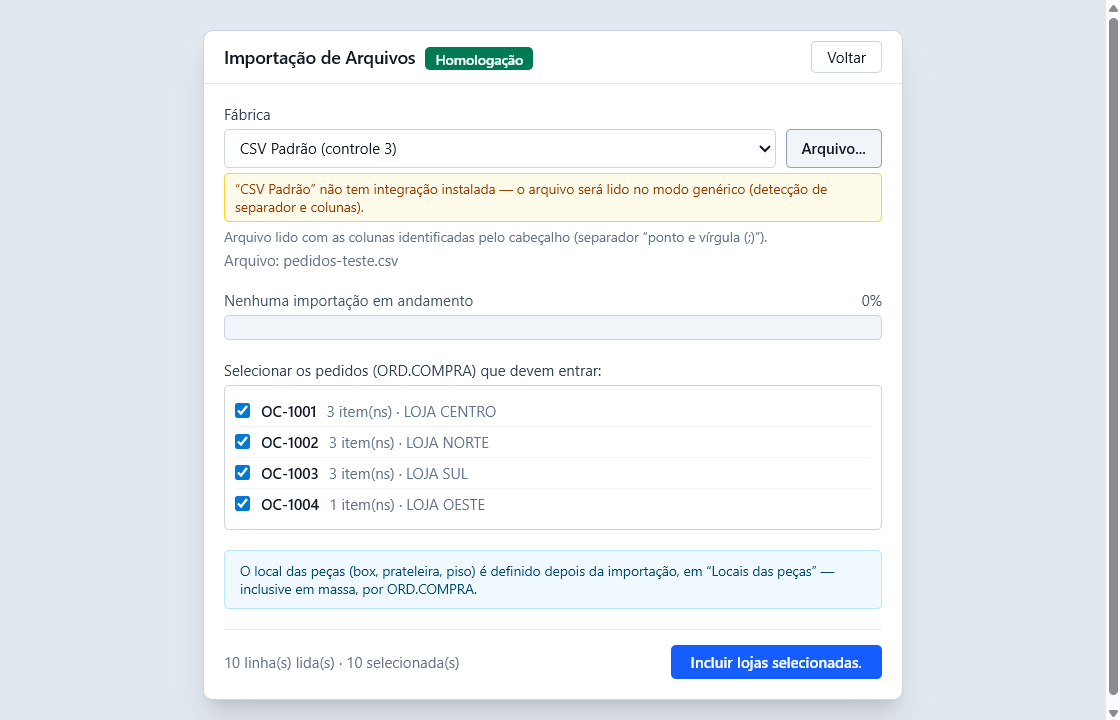
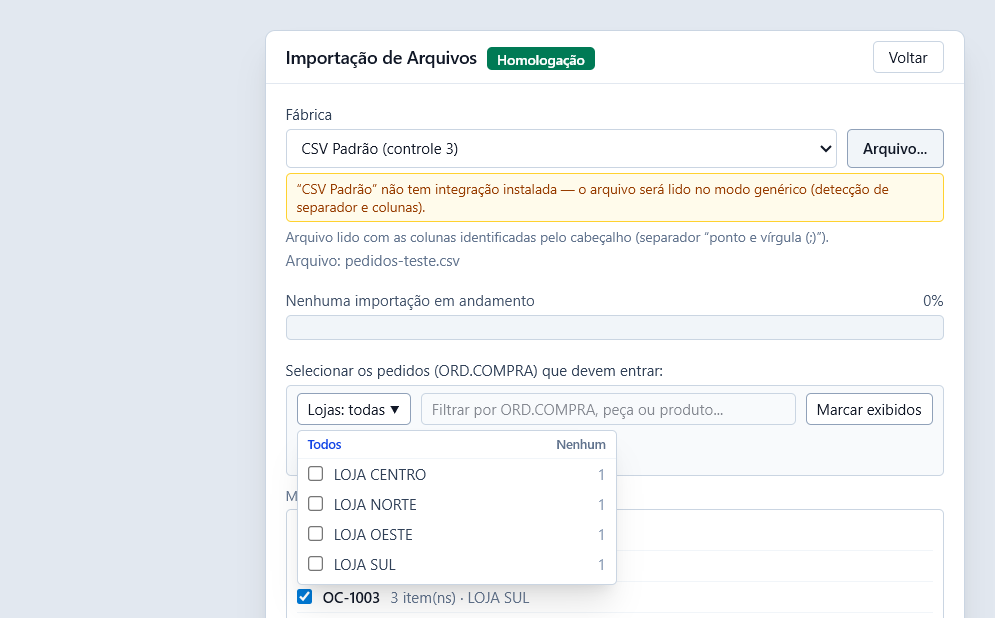
feat(web): filtro de lojas na importacao (combobox + busca + marcar exibidos)

diff --git a/web/src/telas/Importacao.tsx b/web/src/telas/Importacao.tsx
@@ -13,6 +13,28 @@ import {
 import { analisarArquivo, comoLayoutFabrica, PARSERS, rotuloSeparador } from '../lib/parsers';
 import { arquivoParaBase64, lerTextoDoArquivo } from '../lib/arquivo';
 import { somErro, somOk } from '../lib/audio';
+import { ComboboxMultiplo } from '../lib/multiselecao';
+
+/**
+ * Grupo do arquivo: a ORD.COMPRA inteira (é o que a importação trata como
+ * “loja”). `texto` acumula o que o filtro procura e vira `busca` sem acento.
+ */
+type GrupoDoArquivo = {
+  ordcompra: string;
+  quantidade: number;
+  cliente: string;
+  loja: string;
+  busca: string;
+  texto: string;
+};
+
+/** Compara textos sem acento e sem diferenciar maiúsculas (filtro da lista). */
+function semAcento(valor: string): string {
+  return valor
+    .normalize('NFD')
+    .replace(/[\u0300-\u036f]/g, '')
+    .toLowerCase();
+}
 
 type Props = {
   empresa: Empresa;
@@ -55,6 +77,9 @@ export default function Importacao({ empresa, fabricas, fabricaId, onTrocarFabri
   const [descartadas, setDescartadas] = useState(0);
   const [gruposMarcados, setGruposMarcados] = useState<Set<string>>(new Set());
   const [progresso, setProgresso] = useState(0);
+  /** Filtro da lista de pedidos do arquivo: lojas (cliente) e busca livre. */
+  const [lojasFiltradas, setLojasFiltradas] = useState<string[]>([]);
+  const [filtroPedido, setFiltroPedido] = useState('');
   const [etapa, setEtapa] = useState('');
   const [erro, setErro] = useState('');
   const [aviso, setAviso] = useState('');
@@ -97,28 +122,85 @@ export default function Importacao({ empresa, fabricas, fabricaId, onTrocarFabri
 
   /**
    * Grupos do arquivo: a ORD.COMPRA inteira é o agrupamento (não o CLIENTE, que
-   * na maioria dos arquivos vem "NÃO INFORMADO").
+   * na maioria dos arquivos vem "NÃO INFORMADO"). Cada grupo guarda a LOJA (o
+   * cliente) e um texto normalizado que alimenta o filtro da lista.
    */
-  const grupos = useMemo(() => {
-    const mapa = new Map<string, { ordcompra: string; quantidade: number; cliente: string }>();
+  const grupos = useMemo<GrupoDoArquivo[]>(() => {
+    const mapa = new Map<string, GrupoDoArquivo>();
     linhas.forEach((linha) => {
       const ordcompra = String(linha.ordcompra ?? '');
+      const cliente = String(linha.cliente ?? '').trim();
+      const produto = String(linha.produto ?? '');
+      const descricao = String(linha.descricao1 ?? '');
       const atual = mapa.get(ordcompra);
+
       if (atual) {
         atual.quantidade += 1;
-        if (!atual.cliente) atual.cliente = String(linha.cliente ?? '');
+        if (!atual.cliente) atual.cliente = cliente;
+        atual.texto += ` ${produto} ${descricao}`;
       } else {
         mapa.set(ordcompra, {
           ordcompra,
           quantidade: 1,
-          cliente: String(linha.cliente ?? ''),
+          cliente,
+          loja: '',
+          busca: '',
+          texto: `${String(linha.pecliente ?? '')} ${produto} ${descricao}`,
         });
       }
     });
-    return [...mapa.values()].sort((a, b) => a.ordcompra.localeCompare(b.ordcompra, 'pt-BR'));
+
+    return [...mapa.values()]
+      .map((grupo) => {
+        /* “NÃO INFORMADO” é o que os arquivos mandam quando a loja não vem */
+        const informado = grupo.cliente && grupo.cliente.toUpperCase() !== 'NÃO INFORMADO';
+        const loja = informado ? grupo.cliente : '(sem loja)';
+        return {
+          ...grupo,
+          loja,
+          busca: semAcento(`${grupo.ordcompra} ${loja} ${grupo.texto}`),
+        };
+      })
+      .sort((a, b) => a.ordcompra.localeCompare(b.ordcompra, 'pt-BR'));
   }, [linhas]);
 
+  /** Lojas encontradas no arquivo, com quantos pedidos cada uma tem. */
+  const lojasDoArquivo = useMemo(() => {
+    const contagem = new Map<string, number>();
+    grupos.forEach((grupo) => contagem.set(grupo.loja, (contagem.get(grupo.loja) ?? 0) + 1));
+    return [...contagem.entries()]
+      .map(([loja, pedidos]) => ({ valor: loja, rotulo: loja, contagem: pedidos }))
+      .sort((a, b) => a.rotulo.localeCompare(b.rotulo, 'pt-BR'));
+  }, [grupos]);
+
+  /**
+   * Pedidos que a lista mostra. Filtrar NÃO mexe no que está marcado: o que
+   * ficar escondido continua com a marcação anterior.
+   */
+  const gruposExibidos = useMemo(() => {
+    const alvo = semAcento(filtroPedido.trim());
+    return grupos.filter((grupo) => {
+      if (lojasFiltradas.length > 0 && !lojasFiltradas.includes(grupo.loja)) return false;
+      return !alvo || grupo.busca.includes(alvo);
+    });
+  }, [grupos, lojasFiltradas, filtroPedido]);
+
+  /** Pedidos exibidos que estão marcados para importar. */
+  const marcadosNaLista = gruposExibidos.filter((grupo) => gruposMarcados.has(grupo.ordcompra)).length;
+
   const selecionadas = linhas.filter((l) => gruposMarcados.has(String(l.ordcompra ?? ''))).length;
+
+  /** Marca (ou desmarca) de uma vez os pedidos que estão na lista filtrada. */
+  function marcarExibidos(marcar: boolean) {
+    setGruposMarcados((atual) => {
+      const novo = new Set(atual);
+      gruposExibidos.forEach((grupo) => {
+        if (marcar) novo.add(grupo.ordcompra);
+        else novo.delete(grupo.ordcompra);
+      });
+      return novo;
+    });
+  }
 
   async function lerArquivo(arquivo: File) {
     setErro('');
@@ -151,6 +233,9 @@ export default function Importacao({ empresa, fabricas, fabricaId, onTrocarFabri
       setArquivo(arquivo);
       setDescartadas(resultado.descartadas);
       setGruposMarcados(new Set(resultado.linhas.map((l) => String(l.ordcompra ?? ''))));
+      /* arquivo novo, filtro velho: limpa para não esconder pedido sem querer */
+      setLojasFiltradas([]);
+      setFiltroPedido('');
       setLayoutEmUso({
         origem: resultado.origem,
         separador: resultado.separador,
@@ -359,11 +444,75 @@ export default function Importacao({ empresa, fabricas, fabricaId, onTrocarFabri
               Selecionar os pedidos (ORD.COMPRA) que devem entrar:
             </p>
 
+            {/* Filtro de lojas: o arquivo da fábrica pode trazer centenas de
+                pedidos e a equipe costuma importar uma loja por vez. */}
+            {grupos.length > 0 && (
+              <div className="mb-2 flex flex-wrap items-center gap-2 rounded border border-slate-300 bg-slate-50 px-2 py-1.5">
+                <ComboboxMultiplo
+                  rotulo="Lojas"
+                  titulo="Mostrar só os pedidos destas lojas"
+                  placeholder="todas"
+                  largura="w-64"
+                  selecionados={lojasFiltradas}
+                  aoMudar={setLojasFiltradas}
+                  opcoes={lojasDoArquivo}
+                />
+
+                <input
+                  value={filtroPedido}
+                  onChange={(e) => setFiltroPedido(e.target.value)}
+                  placeholder="Filtrar por ORD.COMPRA, peça ou produto..."
+                  className="min-w-[190px] flex-1 rounded border border-slate-300 px-2 py-1 outline-none focus:border-emerald-500 focus:ring-2 focus:ring-emerald-100"
+                />
+
+                <button
+                  onClick={() => marcarExibidos(true)}
+                  disabled={gruposExibidos.length === 0}
+                  title="Marcar todos os pedidos que estão na lista agora"
+                  className="rounded border border-slate-400 bg-white px-2 py-1 hover:bg-slate-100 disabled:opacity-50"
+                >
+                  Marcar exibidos
+                </button>
+                <button
+                  onClick={() => marcarExibidos(false)}
+                  disabled={gruposExibidos.length === 0}
+                  title="Desmarcar todos os pedidos que estão na lista agora"
+                  className="rounded border border-slate-400 bg-white px-2 py-1 hover:bg-slate-100 disabled:opacity-50"
+                >
+                  Desmarcar exibidos
+                </button>
+
+                {(lojasFiltradas.length > 0 || filtroPedido.trim() !== '') && (
+                  <button
+                    onClick={() => {
+                      setLojasFiltradas([]);
+                      setFiltroPedido('');
+                    }}
+                    className="rounded border border-blue-500 bg-blue-50 px-2 py-1 font-semibold text-blue-700 hover:bg-blue-100"
+                  >
+                    Limpar filtro
+                  </button>
+                )}
+              </div>
+            )}
+
+            {grupos.length > 0 && (
+              <p className="mb-1 text-[11px] text-slate-500">
+                Mostrando {gruposExibidos.length} de {grupos.length} pedido(s) · {marcadosNaLista}{' '}
+                marcado(s) na lista
+              </p>
+            )}
+
             <div className="max-h-72 overflow-auto rounded border border-slate-300 p-2">
               {grupos.length === 0 && (
                 <p className="text-slate-500">Escolha um arquivo para listar os pedidos encontrados.</p>
               )}
-              {grupos.map((grupo) => (
+              {grupos.length > 0 && gruposExibidos.length === 0 && (
+                <p className="text-slate-500">
+                  Nenhum pedido com esse filtro — ajuste as lojas ou a busca.
+                </p>
+              )}
+              {gruposExibidos.map((grupo) => (
                 <div
                   key={grupo.ordcompra}
                   className="flex flex-wrap items-center gap-2 border-b border-slate-100 py-1 last:border-b-0"
@@ -384,9 +533,7 @@ export default function Importacao({ empresa, fabricas, fabricaId, onTrocarFabri
                     <span className="font-medium">{grupo.ordcompra || '(sem ORD.COMPRA)'}</span>
                     <span className="text-slate-500">
                       {grupo.quantidade} item(ns)
-                      {grupo.cliente && grupo.cliente !== 'NÃO INFORMADO'
-                        ? ` · ${grupo.cliente}`
-                        : ''}
+                      {grupo.loja !== '(sem loja)' ? ` · ${grupo.loja}` : ''}
                     </span>
                   </label>
                 </div>

diff --git a/web/src/telas/Ajuda.tsx b/web/src/telas/Ajuda.tsx
@@ -153,14 +153,16 @@ const SECOES: Secao[] = [
     passos: [
       'Escolha a FÁBRICA e clique em Arquivo..., selecionando o txt/csv recebido.',
       'O sistema mostra quantas linhas leu e descartou, e lista os PEDIDOS agrupados pela ORD.COMPRA (a ordem de compra inteira é o agrupamento, não o cliente).',
-      'Desmarque os pedidos que NÃO devem entrar.',
+      'Arquivo grande? Use o filtro: o combo Lojas mostra só os pedidos das lojas marcadas (com a quantidade ao lado de cada uma) e o campo de busca procura por ORD.COMPRA, peça ou produto.',
+      'Desmarque os pedidos que NÃO devem entrar. Para marcar ou desmarcar tudo o que está na lista filtrada, use “Marcar exibidos” / “Desmarcar exibidos”.',
       'Clique em “Incluir lojas selecionadas”. As peças entram na situação NORMAL, prontas para a conferência.',
     ],
     dicas: [
+      'O filtro só esconde pedidos da lista — o que ficou escondido continua com a marcação que já tinha.',
       'A importação NÃO define o local das peças — isso é feito depois, na tela “Locais das peças” (seção 12), inclusive em massa por ORD.COMPRA.',
       'Cada importação fica registrada (arquivo, quem importou, linhas) na tela Importações.',
     ],
-    imagem: { arquivo: '/manual/04-importacao-grupos.png', legenda: 'Importação: pedidos por ORD.COMPRA, para marcar o que entra' },
+    imagem: { arquivo: '/manual/04-importacao-grupos.png', legenda: 'Importação: filtro de lojas e os pedidos (ORD.COMPRA) que vão entrar' },
   },
   {
     id: 'importacoes',
